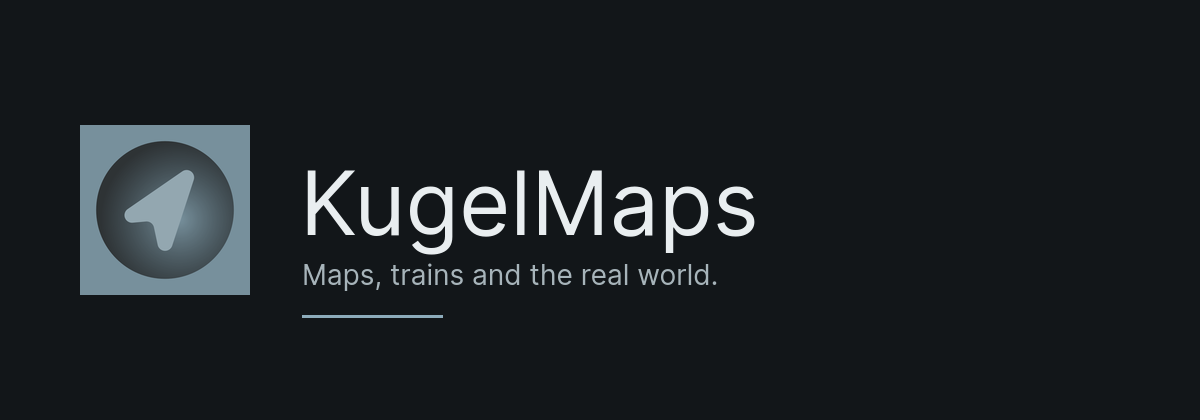
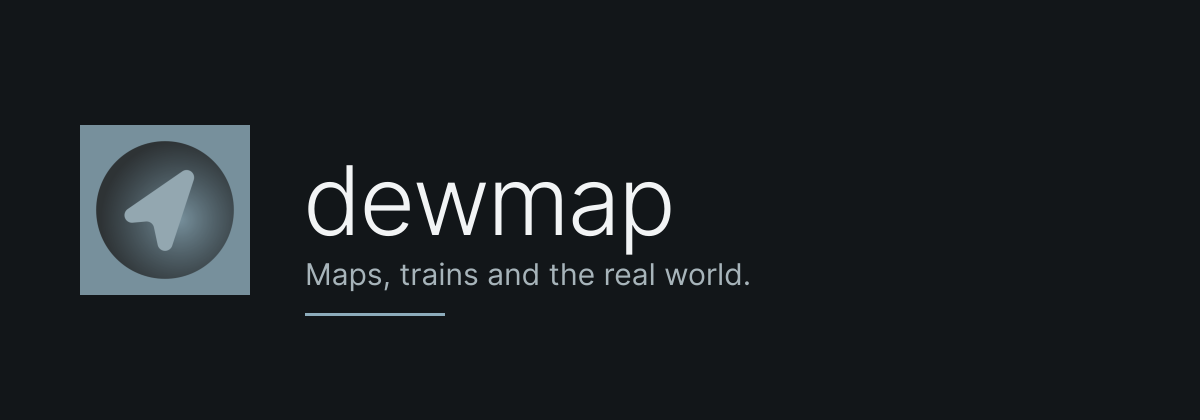
rebrand: rename KugelMaps to dewmap
Rename the app, repository, package, SEO metadata, generated files and README to dewmap (always lowercase). Move storage to dewmap:* and migrate both KugelMaps and BiosphereOne keys. Add legacyStorage tests and regenerate the README hero and Open Graph image.

Changed region(s): [[0.2467, 0.4024, 0.6475, 0.681], [0.2467, 0.7429, 0.37, 0.7738]]

diff --git a/src/lib/legacyStorage.ts b/src/lib/legacyStorage.ts
@@ -1,20 +1,54 @@
 /**
- * One-time migration of data written under the old BiosphereOne brand.
+ * One-time migration of data written under the old BiosphereOne and
+ * KugelMaps brands.
  *
  * Runs before any Zustand store is created, copies (never deletes) the
- * legacy values, and is a no-op when the new key already exists. Users keep
- * their basemap, saved routes, favourites and settings across the rebrand.
+ * legacy values, and is a no-op when the new key already exists. KugelMaps
+ * is the newer brand, so its values win over older BiosphereOne values.
+ * Users keep their basemap, saved routes, favourites, settings and POI
+ * caches across the rebrand.
  */
-const LEGACY_KEYS: Record<string, string> = {
-  "biosphere1:settings": "kugelmaps:settings",
-  "biosphere1:car": "kugelmaps:car",
-  "biosphere1:transit": "kugelmaps:transit",
-  "biosphere1:hiking": "kugelmaps:hiking",
-  "biosphere.routesMode": "kugelmaps.routesMode",
-  "biosphere.geo.autoTrack": "kugelmaps.geo.autoTrack",
-};
+const LEGACY_KEYS: ReadonlyArray<readonly [legacy: string, next: string]> = [
+  // KugelMaps (2026-11-18 → 2026-11-21), newest first.
+  ["kugelmaps:settings", "dewmap:settings"],
+  ["kugelmaps:car", "dewmap:car"],
+  ["kugelmaps:transit", "dewmap:transit"],
+  ["kugelmaps:hiking", "dewmap:hiking"],
+  ["kugelmaps.routesMode", "dewmap.routesMode"],
+  ["kugelmaps.geo.autoTrack", "dewmap.geo.autoTrack"],
+  ["kugelmaps.saved-places", "dewmap.saved-places"],
+  ["kugelmaps.poi-view.v2", "dewmap.poi-view.v2"],
+  // BiosphereOne, the oldest brand.
+  ["biosphere1:settings", "dewmap:settings"],
+  ["biosphere1:car", "dewmap:car"],
+  ["biosphere1:transit", "dewmap:transit"],
+  ["biosphere1:hiking", "dewmap:hiking"],
+  ["biosphere.routesMode", "dewmap.routesMode"],
+  ["biosphere.geo.autoTrack", "dewmap.geo.autoTrack"],
+  ["biosphere.poi-view.v2", "dewmap.poi-view.v2"],
+];
+
+/**
+ * Per-place caches: the POI detail cache and its cluster view. Newest
+ * brand first so a KugelMaps cache is preferred over an older one.
+ */
+const LEGACY_PREFIXES: ReadonlyArray<
+  readonly [legacy: string, next: string]
+> = [
+  ["kugelmaps.poi.v2.", "dewmap.poi.v2."],
+  ["biosphere.poi.v2.", "dewmap.poi.v2."],
+  ["kugelmaps.poi.v1.", "dewmap.poi.v1."],
+  ["biosphere.poi.v1.", "dewmap.poi.v1."],
+];
 
 let done = false;
+
+function copyIfAbsent(storage: Storage, legacy: string, next: string) {
+  const value = storage.getItem(legacy);
+  if (value !== null && storage.getItem(next) === null) {
+    storage.setItem(next, value);
+  }
+}
 
 export function migrateLegacyStorage() {
   if (done || typeof window === "undefined") return;
@@ -23,26 +57,24 @@ export function migrateLegacyStorage() {
   try {
     const storage = window.localStorage;
 
-    for (const [legacy, next] of Object.entries(LEGACY_KEYS)) {
-      const value = storage.getItem(legacy);
-      if (value !== null && storage.getItem(next) === null) {
-        storage.setItem(next, value);
-      }
+    for (const [legacy, next] of LEGACY_KEYS) {
+      copyIfAbsent(storage, legacy, next);
     }
 
-    // The POI cache is keyed per place, so copy every legacy entry.
-    const legacyPrefix = "biosphere.poi.v1.";
-    const nextPrefix = "kugelmaps.poi.v1.";
+    // Snapshot the keys first: copying adds new keys while we iterate.
     const keys: string[] = [];
     for (let i = 0; i < storage.length; i += 1) {
       const key = storage.key(i);
-      if (key?.startsWith(legacyPrefix)) keys.push(key);
+      if (key) keys.push(key);
     }
-    for (const key of keys) {
-      const value = storage.getItem(key);
-      const next = nextPrefix + key.slice(legacyPrefix.length);
-      if (value !== null && storage.getItem(next) === null) {
-        storage.setItem(next, value);
+    for (const [legacyPrefix, nextPrefix] of LEGACY_PREFIXES) {
+      for (const key of keys) {
+        if (!key.startsWith(legacyPrefix)) continue;
+        copyIfAbsent(
+          storage,
+          key,
+          nextPrefix + key.slice(legacyPrefix.length),
+        );
       }
     }
   } catch {

diff --git a/src/lib/legacyStorage.test.ts b/src/lib/legacyStorage.test.ts
@@ -1,0 +1,86 @@
+import { afterEach, describe, expect, it, vi } from "vitest";
+
+type FakeStorage = {
+  readonly length: number;
+  key: (index: number) => string | null;
+  getItem: (key: string) => string | null;
+  setItem: (key: string, value: string) => void;
+  removeItem: (key: string) => void;
+  clear: () => void;
+};
+
+function makeStorage(initial: Record<string, string>): FakeStorage {
+  const values = new Map(Object.entries(initial));
+  return {
+    get length() {
+      return values.size;
+    },
+    key: (index) => [...values.keys()][index] ?? null,
+    getItem: (key) => values.get(key) ?? null,
+    setItem: (key, value) => {
+      values.set(key, value);
+    },
+    removeItem: (key) => {
+      values.delete(key);
+    },
+    clear: () => values.clear(),
+  };
+}
+
+let storage: FakeStorage;
+
+async function migrate() {
+  vi.resetModules();
+  vi.stubGlobal("window", { localStorage: storage });
+  const legacy = await import("./legacyStorage");
+  legacy.migrateLegacyStorage();
+}
+
+afterEach(() => {
+  vi.unstubAllGlobals();
+});
+
+describe("migrateLegacyStorage", () => {
+  it("copies KugelMaps keys to dewmap without deleting the source", async () => {
+    storage = makeStorage({ "kugelmaps:settings": '{"a":1}' });
+    await migrate();
+    expect(storage.getItem("dewmap:settings")).toBe('{"a":1}');
+    expect(storage.getItem("kugelmaps:settings")).toBe('{"a":1}');
+  });
+
+  it("prefers the newer KugelMaps value over BiosphereOne", async () => {
+    storage = makeStorage({
+      "biosphere1:settings": "old",
+      "kugelmaps:settings": "new",
+    });
+    await migrate();
+    expect(storage.getItem("dewmap:settings")).toBe("new");
+  });
+
+  it("copies BiosphereOne keys when no KugelMaps value exists", async () => {
+    storage = makeStorage({ "biosphere1:settings": "old" });
+    await migrate();
+    expect(storage.getItem("dewmap:settings")).toBe("old");
+  });
+
+  it("never overwrites an existing dewmap value", async () => {
+    storage = makeStorage({
+      "kugelmaps:settings": "old",
+      "dewmap:settings": "current",
+    });
+    await migrate();
+    expect(storage.getItem("dewmap:settings")).toBe("current");
+  });
+
+  it("copies per-place POI caches and saved places", async () => {
+    storage = makeStorage({
+      "kugelmaps.poi.v2.N123": "poi",
+      "kugelmaps.poi-view.v2": "view",
+      "kugelmaps.saved-places": "places",
+    });
+    await migrate();
+    expect(storage.getItem("dewmap.poi.v2.N123")).toBe("poi");
+    expect(storage.getItem("dewmap.poi-view.v2")).toBe("view");
+    expect(storage.getItem("dewmap.saved-places")).toBe("places");
+  });
+});

diff --git a/src/components/Map.tsx b/src/components/Map.tsx
@@ -1948,14 +1948,14 @@ export function LiveMap({ credentials, onOpenSettings }: Props) {
   const [activePane, setActivePane] = useState<SidebarPane>("hiking");
   const [routesMode, setRoutesMode] = useState<RoutesMode>(() => {
     if (typeof window === "undefined") return "transit";
-    const stored = window.localStorage.getItem("kugelmaps.routesMode");
+    const stored = window.localStorage.getItem("dewmap.routesMode");
     return stored === "walk" || stored === "bike" || stored === "car"
       ? stored
       : "transit";
   });
   useEffect(() => {
     try {
-      window.localStorage.setItem("kugelmaps.routesMode", routesMode);
+      window.localStorage.setItem("dewmap.routesMode", routesMode);
     } catch {
       /* private mode */
     }
@@ -2713,7 +2713,7 @@ export function LiveMap({ credentials, onOpenSettings }: Props) {
     // we just skip the manual tap when we're confident it was already
     // granted before. If the OS has revoked it, the standard prompt
     // re-appears as expected.
-    const GEO_FLAG = "kugelmaps.geo.autoTrack";
+    const GEO_FLAG = "dewmap.geo.autoTrack";
     geolocate.on("geolocate", () => {
       try {
         window.localStorage.setItem(GEO_FLAG, "1");
@@ -4129,7 +4129,7 @@ export function LiveMap({ credentials, onOpenSettings }: Props) {
     });
 
     map.on("moveend", scheduleClusters);
-    map.on("kugelmaps:poi-kinds", onKindsChanged);
+    map.on("dewmap:poi-kinds", onKindsChanged);
     map.on("mouseenter", POI_HIT_LAYER_ID, showPointer);
     map.on("mouseleave", POI_HIT_LAYER_ID, hidePointer);
     map.on("mouseenter", POI_CLUSTER_CIRCLE_LAYER_ID, showPointer);
@@ -4148,7 +4148,7 @@ export function LiveMap({ credentials, onOpenSettings }: Props) {
       map.off("style.load", apply);
       map.off("idle", apply);
       map.off("moveend", scheduleClusters);
-      map.off("kugelmaps:poi-kinds", onKindsChanged);
+      map.off("dewmap:poi-kinds", onKindsChanged);
       map.off("mouseenter", POI_HIT_LAYER_ID, showPointer);
       map.off("mouseleave", POI_HIT_LAYER_ID, hidePointer);
       map.off("mouseenter", POI_CLUSTER_CIRCLE_LAYER_ID, showPointer);
@@ -4215,7 +4215,7 @@ export function LiveMap({ credentials, onOpenSettings }: Props) {
       // Style not parsed yet; the POI effect re-applies filters on apply.
       return;
     }
-    mapInstance.fire("kugelmaps:poi-kinds");
+    mapInstance.fire("dewmap:poi-kinds");
   }, [poiOn, mapInstance, poiKinds]);
 
   // ── Biosphere · Species (GBIF) ────────────────────────────────────

diff --git a/src/lib/history/global.test.ts b/src/lib/history/global.test.ts
@@ -193,7 +193,7 @@ describe("createHistoryProtocol", () => {
   it("opens a range-mode archive under its absolute URL", async () => {
     const map = maplibre();
     const { protocol, open } = createHistoryProtocol(map, {
-      baseUrl: "https://example.test/KugelMaps/",
+      baseUrl: "https://example.test/dewmap/",
     });
     const url = await open(
       {
@@ -204,7 +204,7 @@ describe("createHistoryProtocol", () => {
       "range",
     );
     expect(url).toBe(
-      "pmtiles://https://example.test/KugelMaps/data/history/history-20261118-0400/history-sites.pmtiles",
+      "pmtiles://https://example.test/dewmap/data/history/history-20261118-0400/history-sites.pmtiles",
     );
     expect(protocol.tiles.size).toBe(1);
   });

diff --git a/src/lib/site.ts b/src/lib/site.ts
@@ -1,4 +1,4 @@
-export const SITE_NAME = "KugelMaps";
+export const SITE_NAME = "dewmap";
 export const SITE_TAGLINE = "Maps, trains and the real world.";
 export const SITE_DESCRIPTION =
   "A client-side map for trains, trails and the real world: train-first public transport, hiking and walking routes, satellite basemaps and live environmental layers. No backend, no accounts, no tracking.";
@@ -9,5 +9,5 @@ export const SITE_DESCRIPTION =
  * NEXT_PUBLIC_SITE_URL for a custom domain.
  */
 export const SITE_URL = (
-  process.env.NEXT_PUBLIC_SITE_URL ?? "https://bitm4ncer.github.io/kugelmaps"
+  process.env.NEXT_PUBLIC_SITE_URL ?? "https://bitm4ncer.github.io/dewmap"
 ).replace(/\/+$/, "");

diff --git a/public/sw.js b/public/sw.js
@@ -1,4 +1,4 @@
-/* KugelMaps shell service worker.
+/* dewmap shell service worker.
  *
  * Caches the app shell and hashed Next.js chunks so the interface opens
  * offline after the first visit. Map tiles and routing APIs stay
@@ -9,7 +9,7 @@
 /* Bump on every change that must reach an installed home-screen app: the
  * shell (index, manifest, icons) is cache-first, so a new cache name is what
  * forces the manifest colours and the shell to be re-read. */
-const CACHE = "kugelmaps-shell-v2";
+const CACHE = "dewmap-shell-v2";
 const SCOPE = self.registration.scope;
 
 const SHELL = [

diff --git a/src/lib/planner/transitFormat.ts b/src/lib/planner/transitFormat.ts
@@ -717,11 +717,11 @@ export function buildIcs(journey: RoutePlan): string {
       return `${time} ${stopLabel(leg.from)} → ${stopLabel(leg.to)} · ${line}`;
     })
     .join("\n");
-  const uid = `${(journey.id || "journey").replace(/[^a-zA-Z0-9._-]/g, "-")}@kugelmaps`;
+  const uid = `${(journey.id || "journey").replace(/[^a-zA-Z0-9._-]/g, "-")}@dewmap`;
   const lines = [
     "BEGIN:VCALENDAR",
     "VERSION:2.0",
-    "PRODID:-//KugelMaps//Transit//EN",
+    "PRODID:-//dewmap//Transit//EN",
     "CALSCALE:GREGORIAN",
     "METHOD:PUBLISH",
     "BEGIN:VEVENT",

diff --git a/src/components/CredentialsModal.tsx b/src/components/CredentialsModal.tsx
@@ -78,7 +78,7 @@ export function CredentialsModal({ initial, onSave, onClose, onClear }: Props) {
               className="mt-1.5 space-y-2 text-[14px] leading-relaxed text-[color:var(--ink-dim)]"
             >
               <p>
-                KugelMaps runs entirely in your browser — no backend, no proxy.
+                dewmap runs entirely in your browser — no backend, no proxy.
               </p>
               <ul className="list-disc space-y-1 pl-4">
                 <li>

diff --git a/src/lib/poi/poiClusterData.test.ts b/src/lib/poi/poiClusterData.test.ts
@@ -256,7 +256,7 @@ describe("warm start", () => {
     persistPoiView([2, 2, 3, 3], 0.02, frame("three"));
     persistPoiView([3, 3, 4, 4], 0.02, frame("four"));
 
-    const stored = JSON.parse(store.get("kugelmaps.poi-view.v2") ?? "{}");
+    const stored = JSON.parse(store.get("dewmap.poi-view.v2") ?? "{}");
     expect(stored.v).toBe(2);
     expect(stored.views).toHaveLength(3);
     expect(stored.views.map((v: { bbox: number[] }) => v.bbox)).toEqual([

diff --git a/src/lib/hiking/gpx.ts b/src/lib/hiking/gpx.ts
@@ -28,7 +28,7 @@ export function routeToGpx(
     .join("\n");
 
   return `<?xml version="1.0" encoding="UTF-8"?>
-<gpx version="1.1" creator="kugelmaps" xmlns="http://www.topografix.com/GPX/1/1">
+<gpx version="1.1" creator="dewmap" xmlns="http://www.topografix.com/GPX/1/1">
   <metadata>
     <name>${trkName}</name>
     <desc>${candidate.distanceKm.toFixed(1)} km · ${Math.round(candidate.durationMin)} min · +${Math.round(candidate.ascentM)} m</desc>

diff --git a/src/lib/poi/poiClusterData.ts b/src/lib/poi/poiClusterData.ts
@@ -619,7 +619,7 @@ export function aggregatePoiDistricts(
 // The whole-city view needs hundreds of tiles; on a fresh app start the
 // map would be empty for seconds. Persist the last aggregated district
 // markers per view so the same picture appears instantly, then refresh.
-const VIEW_KEY = "kugelmaps.poi-view.v2";
+const VIEW_KEY = "dewmap.poi-view.v2";
 const VIEW_VERSION = 2;
 const VIEW_TTL_MS = 12 * 60 * 60_000;
 const VIEW_MAX_ENTRIES = 3;

diff --git a/src/lib/bus/busRoutes.ts b/src/lib/bus/busRoutes.ts
@@ -42,7 +42,7 @@ const GRID_STEP = 0.05;
 /** Rough transfer size of one cell in the prefetch budget. */
 const BUS_ROUTE_BYTES = 520;
 const BUS_STOP_BYTES = 120;
-/** Legacy localStorage key, migrated into IndexedDB on first load. */
+/** Pre-dewmap localStorage key, migrated into IndexedDB on first load. */
 const LEGACY_PERSIST_KEY = "kugelmaps.bus-cache.v1";
 const PERSIST_MAX_ENTRIES = 6;
 
